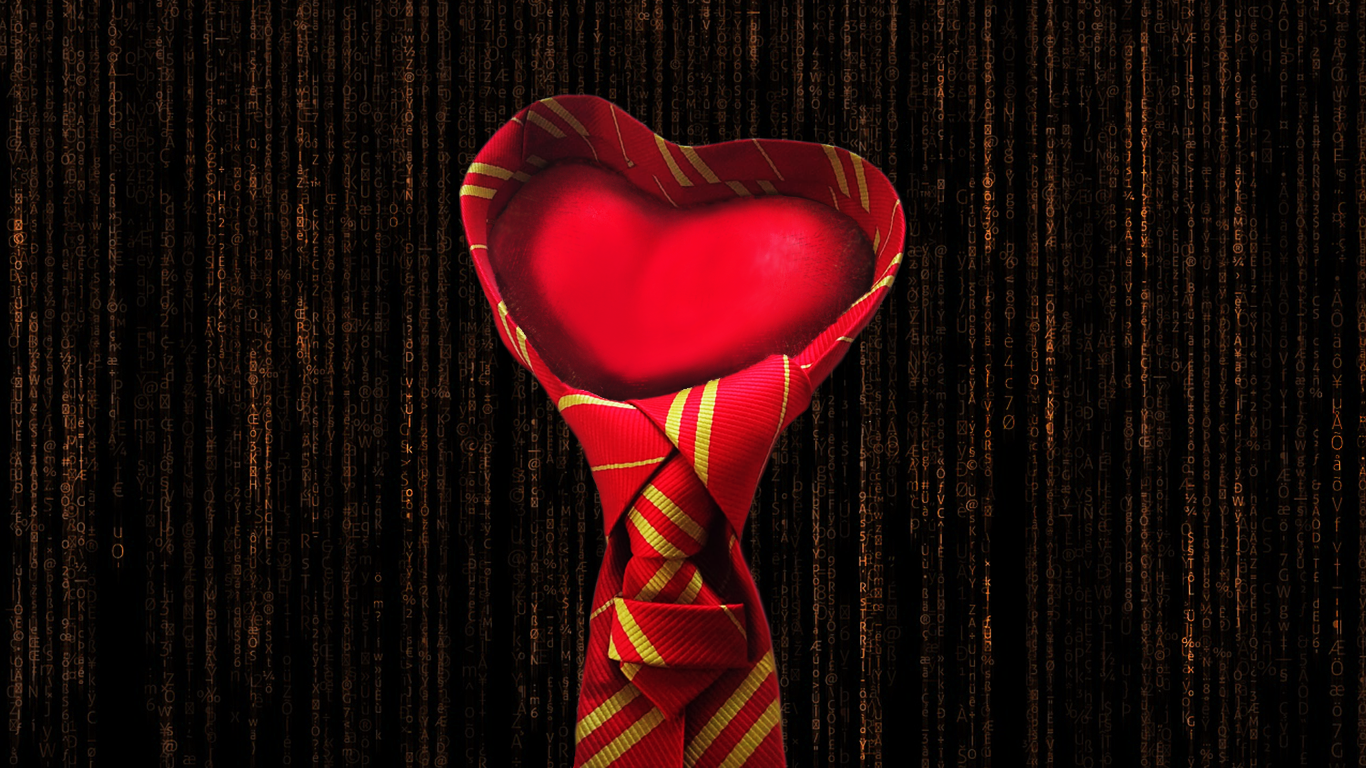
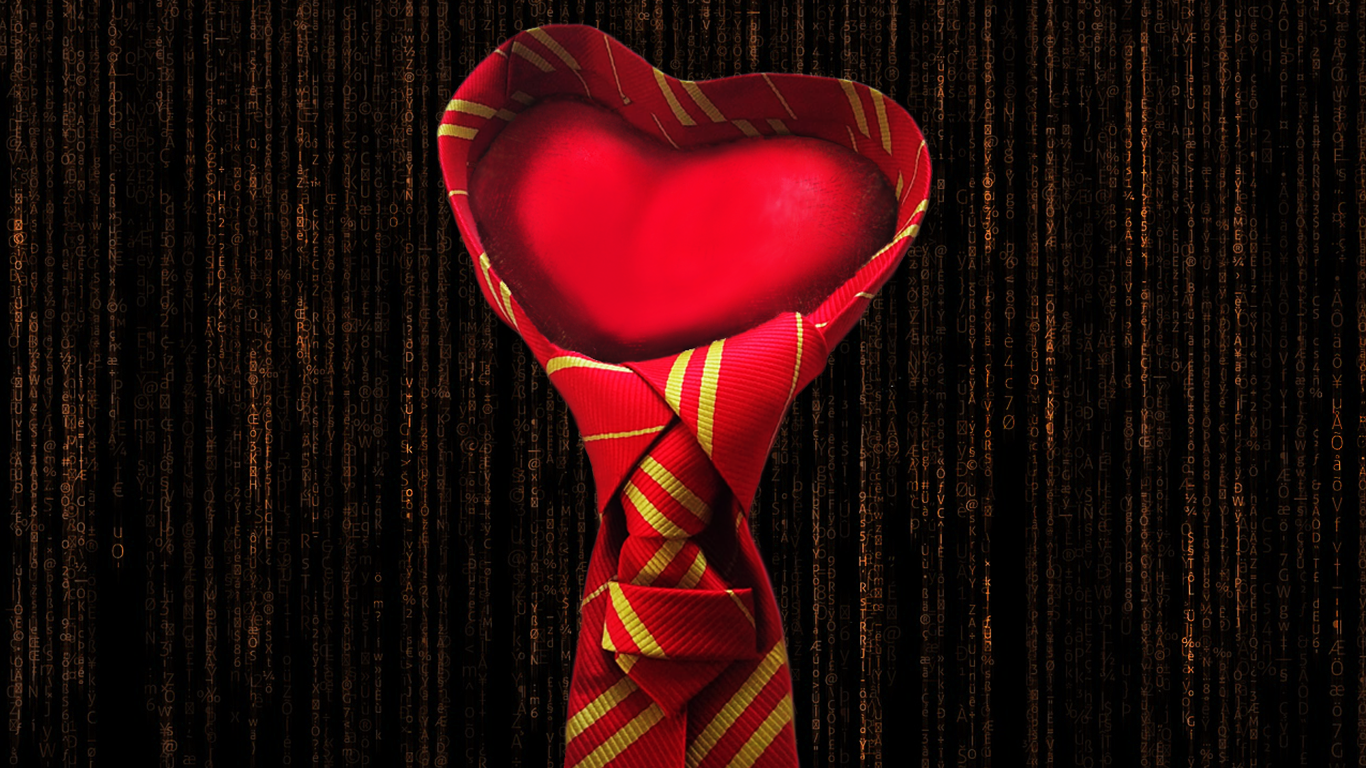
Updates

Changed region(s): [[0.3075, 0.0312, 0.7072, 1.0]]

diff --git a/css/main.css b/css/main.css
@@ -78,48 +78,18 @@ a {
     padding: 1rem;
     padding-top: 2rem;
     height: 14%;
-    margin-top: 2rem;
-    position: fixed;
-    margin: 0;
-    top: 0; }
+    margin-top: 12rem;
+    position: relative; }
     @media only screen and (min-width: 768px) {
       .home .wrap,
       .homeMain .wrap {
-        height: 13%;
-        margin-top: 2rem; } }
+        height: 19%;
+        margin-top: 14rem; } }
     @media only screen and (min-width: 1024px) {
       .home .wrap,
       .homeMain .wrap {
-        top: 2.5rem; } }
-  .home h1,
-  .homeMain h1 {
-    position: relative;
-    margin-top: 23rem;
-    font-weight: bold;
-    font-size: 2.6rem;
-    color: #610a18; }
-    @media only screen and (min-width: 1024px) {
-      .home h1,
-      .homeMain h1 {
-        margin-top: 10rem; } }
-    .home h1 span,
-    .homeMain h1 span {
-      font-weight: normal;
-      letter-spacing: 0.02rem;
-      font-size: 2.8rem;
-      text-shadow: 2px 3px 1px #c70d25;
-      font-family: "Robot", "Montserrat", cursive;
-      font-family: "Cinzel Decorative", cursive;
-      font-family: "Girassol", cursive; }
-      @media only screen and (min-width: 768px) {
-        .home h1 span,
-        .homeMain h1 span {
-          text-shadow: 2px 3px 4px #2b1b1b;
-          font-size: 4.4rem; } }
-      @media only screen and (min-width: 1024px) {
-        .home h1 span,
-        .homeMain h1 span {
-          font-size: 2.6rem; } }
+        height: 19%;
+        margin-top: 3rem; } }
   .home .creativity,
   .homeMain .creativity {
     font-size: 1.2rem;
@@ -135,7 +105,7 @@ a {
   .home .my_name,
   .homeMain .my_name {
     font-family: "Cinzel Decorative", cursive;
-    font-size: 1.39em;
+    font-size: 1.59em;
     font-weight: bold;
     line-height: 1em;
     color: #f7dea7;
@@ -191,9 +161,9 @@ a {
       .home svg,
       .homeMain svg {
         width: 100%;
-        height: 50vh;
+        height: 64vh;
         padding-top: 0;
-        margin-top: 0rem; } }
+        margin-top: -3rem; } }
   .home .svg-container,
   .homeMain .svg-container {
     width: 68%;
@@ -201,7 +171,6 @@ a {
     display: -webkit-box;
     display: -ms-flexbox;
     display: flex;
-    margin-top: 3rem;
     -ms-flex-pack: distribute;
         justify-content: space-around;
     -webkit-transform: 1.2s cubic-bezier(0.7, 0, 0.3, 1), opacity 1s linear, -webkit-transform 1.2s cubic-bezier(0.7, 0, 0.3, 1);

diff --git a/index.html b/index.html
@@ -58,8 +58,6 @@
             <h2 class="title_text">Front-end Developer</h2>
           </div>
         </div>
-        <h1 id="portfolio-title"><span>Portfolio</span></h1>
-
         <!-- MENU SVG CONTAINER     -->
         <div class="svg-container">
           <svg
